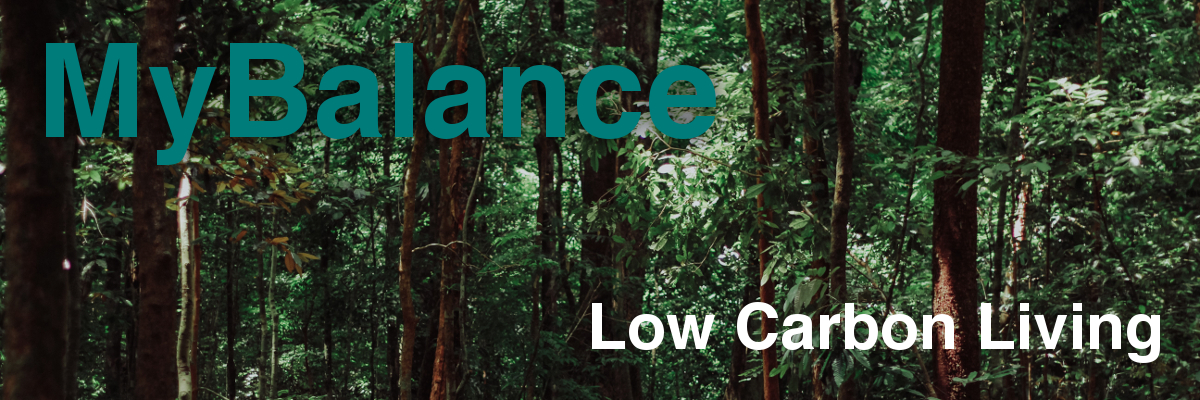
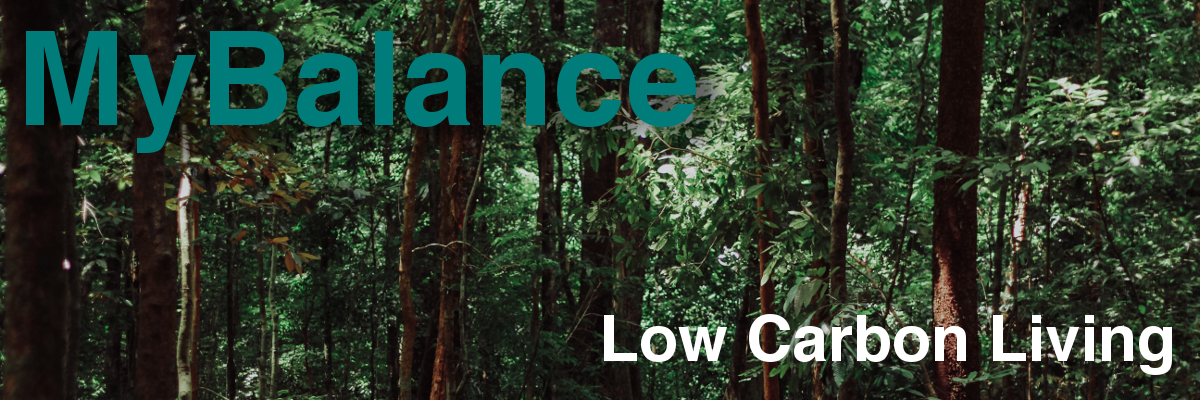
:bento: Update email-header asset

Changed region(s): [[0.0, 0.06, 0.6167, 0.42], [0.4933, 0.75, 0.9867, 0.96]]

diff --git a/email-template/index.html b/email-template/index.html
@@ -1,5 +1,5 @@
 <div style="flex-direction: column; max-width: 600px; margin: 0 auto; font-family: -apple-system, BlinkMacSystemFont, 'Segoe UI', Roboto, Oxygen, Ubuntu, Cantarell, 'Open Sans', 'Helvetica Neue', sans-serif;">
-    <img width="600px" src="https://mybalance.earth/assets/img/email-header.jpg"/>
+    <img width="600px" src="assets/img/email-header.jpg"/>
     <div>
         <p>Meeting the challenges of our government's net-zero carbon targets is now influencing the decisions
             we take in daily life.</p>
